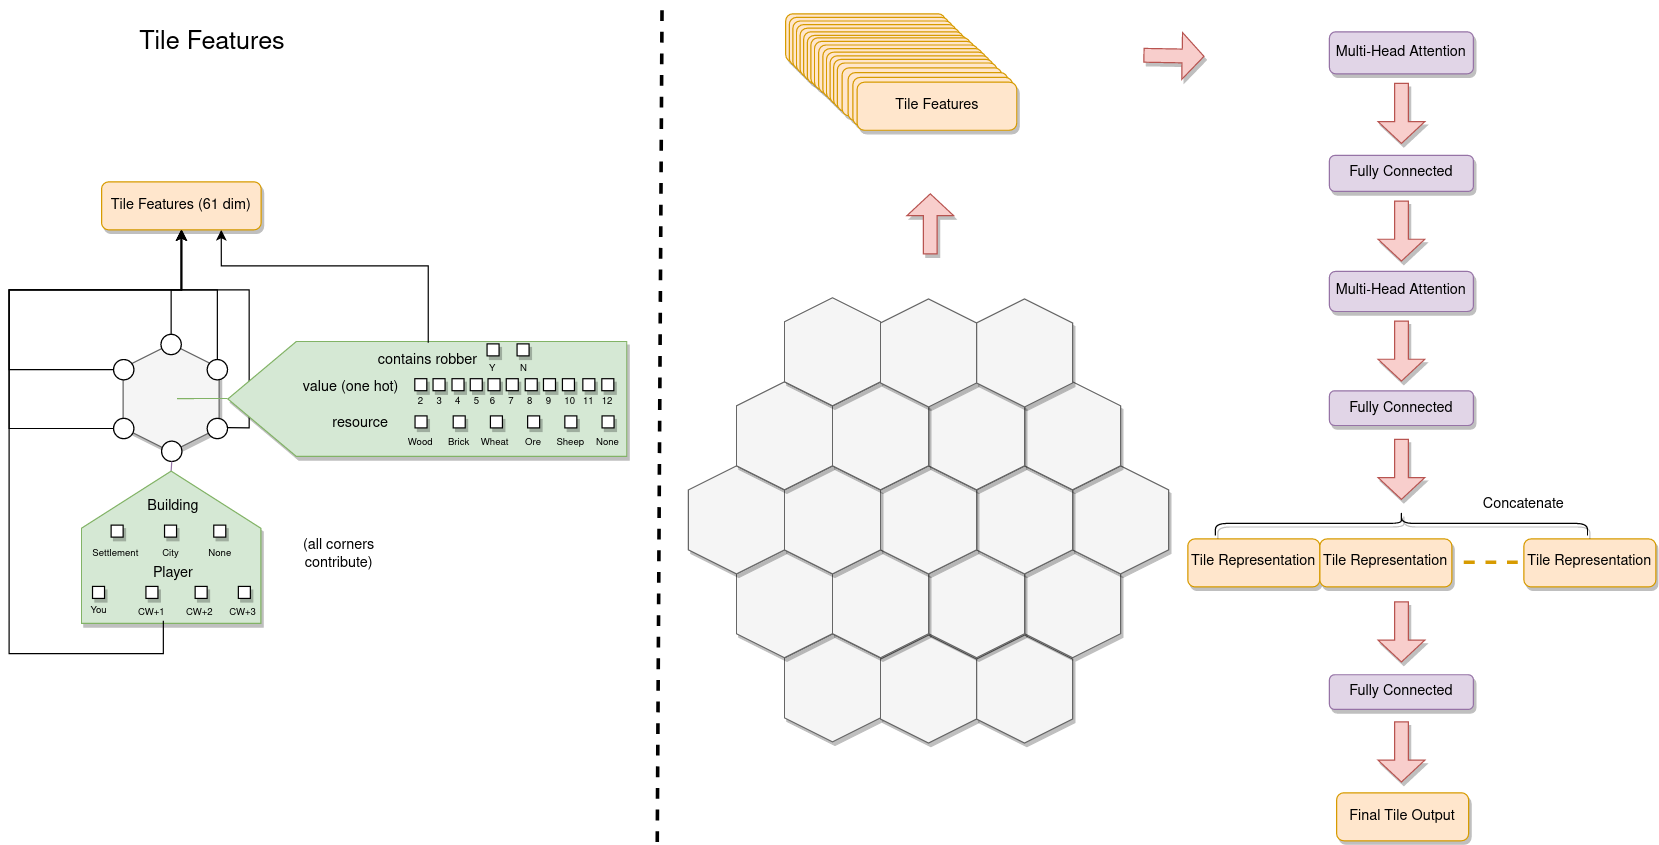
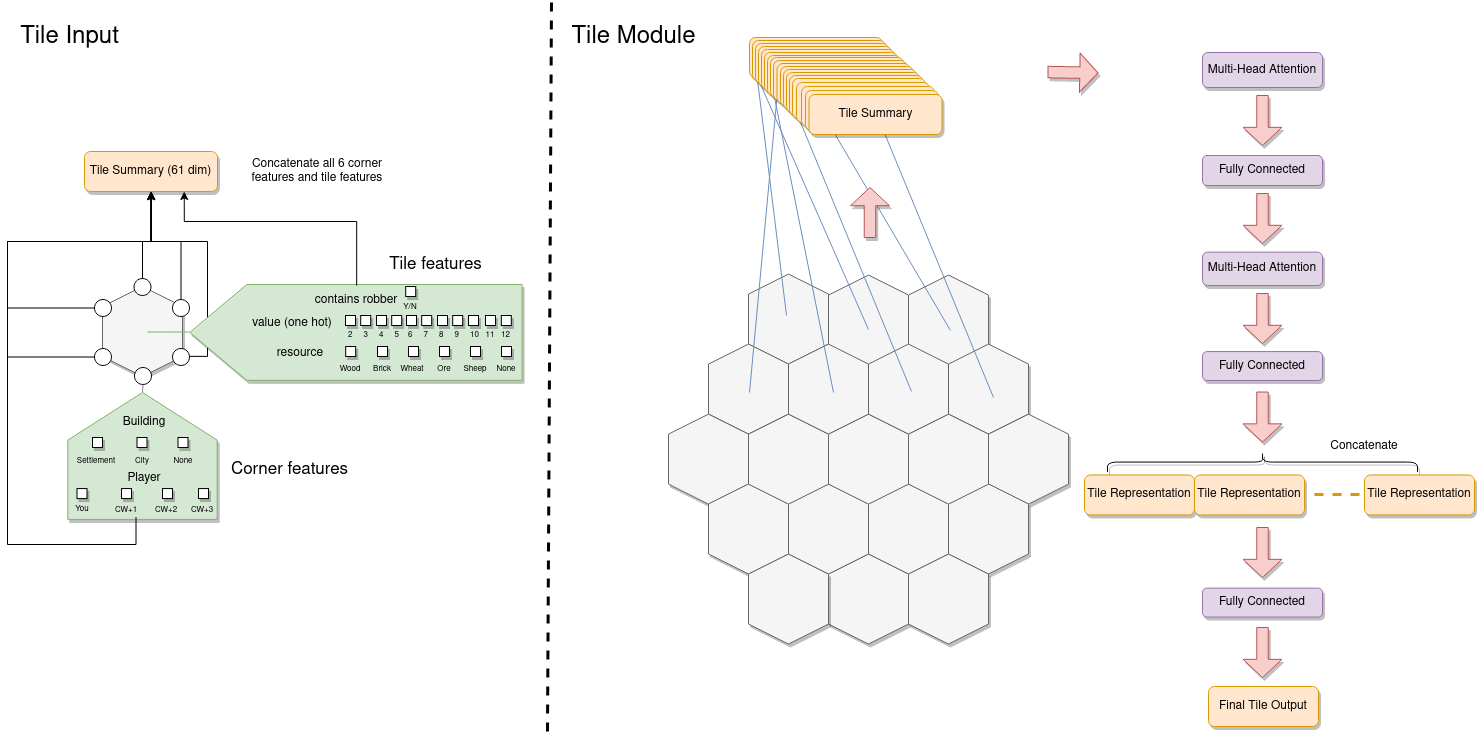
nearly finished obs write up

diff --git a/index.html b/index.html
@@ -591,11 +591,11 @@ d-contents nav > div > a:hover, d-contents nav > ul > li > a:hover {
   The key ideas to deal with the action space was to use a combination of different action heads for different types of actions, and to have the simulator generate a corresponding set of masks that prevent invalid actions from ever being selected. The use of different action heads imposes some <i>structure</i> on the action space, which in principle should make training more efficient.
   </p>
   <p class="l-middle">
-  Let's start by considering the most naive approach we could take and think about some potential issues. An obvious idea would be to simply define a fixed set of actions and then have the neural network policy output a fixed size vector of probabilities over all of these possible actions (masking out all the actions which are unavailable in the current state - i.e. manually setting the probabilities to zero). So for example, you could have the first 54 components of the vector corresponding to placing a settlement on each of the 54 corners of the board, whilst the next 72 could correspond to placing a road on any of the 72 edges of the board, etc. 
+  Let's start by considering the most naive approach we could take and think about some potential issues that may arise. An obvious idea would be to simply define a fixed set of actions and then have the neural network policy output a fixed size vector of probabilities over all of these possible actions (masking out all the actions which are unavailable in the current state - i.e. manually setting the probabilities to zero). So for example, you could have the first 54 components of the vector corresponding to placing a settlement on each of the 54 corners of the board, whilst the next 72 could correspond to placing a road on any of the 72 edges of the board, etc. 
   </p>
 
   <p class="l-middle">
-    Whilst this is probably not too bad for placing settlements and roads, the first issue that arises is that some of the other available actions are a bit more complicated to model. For example, let's consider playing the "Year of Plenty" development card. When the card is played the user is allowed to choose two resources to take from the bank. This effectively makes it a composite action - you choose to play the card and you also need to select the two resources to receive. If we want to treat this as a single decision it means that there need to be 15 separate entries in the fixed size set of actions - one for each combination of resources (we can assume the order of resources is irrelevant). But this means that the network will have to learn about each of these 15 possibilities separately. So when it receives feedback from playing one of these actions (e.g. let's say that the agent went on to receive more reward than usual, so it wants to increase the probability of playing that action again in a similar situation), there is no direct mechanism that will lead to that feedback impacting the probabilities of the other 14 (quite similar) actions. Given that playing a "year of plenty" development card is quite rare anyway this will mean that the agent is likely to require an infeasible amount of experience to learn about all of these different possibilities independently. The alternative would be to break this down this down into three separate decisions - with one of the entries in the fixed size vector representing playing the card, and five entries corresponding to selecting a resource. Then once the card has been played, the simulator could mask out all actions that do not correspond to selecting a resource for the next two decisions. I suspect this might be preferable in this situation, however it's still not ideal because you have turned what should be a single action into three. Additionally, the network will need to be provided with information about the context of each of the three decisions its making and calculating the correct action masks for each decision can get a little tricky. These problems are exacerbated even further when we think about how to model trading.
+    Whilst this is probably not too bad for placing settlements and roads, the first issue that arises is that some of the other available actions are a bit more complicated to model. For example, let's consider playing the "Year of Plenty" development card. When the card is played the user is allowed to choose two resources to take from the bank. This effectively makes it a composite action - you choose to play the card and you also need to select the two resources to receive. If we want to treat this as a single decision it means that there need to be 15 separate entries in the fixed size set of actions - one for each combination of resources (we can assume the order of resources is irrelevant). But this means that the network will have to learn about each of these 15 possibilities separately. So when it receives feedback from playing one of these actions (e.g. let's say that the agent went on to receive more reward than usual, so it wants to increase the probability of playing that action again in a similar situation), there is no direct mechanism that will lead to that feedback impacting the probabilities of the other 14 (quite similar) actions. Given that playing a "year of plenty" development card is quite rare anyway this will mean that the agent is likely to require an infeasible amount of experience to learn about all of these different possibilities independently. The alternative would be to break this down this down into three separate decisions - with one of the entries in the fixed size vector representing playing the card, and five entries corresponding to selecting a resource. Then once the card has been played, the simulator could mask out all actions that do not correspond to selecting a resource for the next two decisions. I suspect this might be preferable in this situation, however it's still not ideal because you have turned what should be a single action into three. Additionally, the network will need to be provided with information about the context of each of the three decisions its making and calculating the correct action masks for each decision can get a little tricky. These problems are exacerbated even further when we think about how to model trading resources.
   </p>
 
   <p class="l-middle">
@@ -603,14 +603,16 @@ d-contents nav > div > a:hover, d-contents nav > ul > li > a:hover {
   </p>
 
   <p class="l-middle">
-    As a quick technical aside, the RL algorithm used (PPO <d-footnote><a href="https://arxiv.org/abs/1707.06347" target="_blank">"Proximal Policy Optimization Algorithms"</a> - Schulman et al. 2017</d-footnote>) requires you to calculate the log-probability of the action taken. Note that this can easily be done with when using multiple action heads. For example imagine a composite action made up of an action type \(a_{\text{type}} \) and a secondary output from another head that depends on the action type, \(a_{\text{head 2}} \). We can write the probability of the composite action as:
-    $$ P(a_{\text{type}}, a_{\text{head 2}}) = P(a_{\text{head 2}} | a_{\text{type}}) P(a_{\text{type}}) $$
-    The first head outputs \( P(a_{\text{type}}) \) and if we feed in the sampled \(a_{\text{type}} \) to the second head then the second head outputs \( P(a_{\text{head 2}} | a_{\text{type}})  \). Then the log probability follows simply as:
-    $$ \log P(a_{\text{type}}, a_{\text{head 2}}) = \log P(a_{\text{head 2}} | a_{\text{type}}) + \log P(a_{\text{type}}) $$
+    As a quick technical aside, the RL algorithm used (PPO <d-footnote><a href="https://arxiv.org/abs/1707.06347" target="_blank">"Proximal Policy Optimization Algorithms"</a> - Schulman et al. 2017</d-footnote>) requires you to calculate the log-probability of the action taken. Note that this can easily be done with when using multiple action heads. For example imagine a composite action made up of an action type \(a_{\text{type}} \) and a secondary output from another head that depends on the action type, \(a_{\text{head two}} \). We can write the probability of the composite action as:
+    $$ P(a_{\text{type}}, a_{\text{head two}}) = P(a_{\text{head two}} | a_{\text{type}}) P(a_{\text{type}}) $$
+    The first head outputs \( P(a_{\text{type}}) \) and if we feed in the sampled \(a_{\text{type}} \) to the second head then the second head outputs \( P(a_{\text{head two}} | a_{\text{type}})  \). Then the log probability follows simply as:
+    $$ \log P(a_{\text{type}}, a_{\text{head two}}) = \log P(a_{\text{head two}} | a_{\text{type}}) + \log P(a_{\text{type}}) $$
   </p>
 
+  <p class="l-middle">So we get the log probability of the composite action simply by summing the log probabilities of each relevant action head!</p>
+
   <p class="l-middle">
-  Having said all of this, using multiple action heads in this way is not trivial, and I will dedicate a fair amount of time to try and explain in detail how this was implemented in practice. To get started with, I broke the basic actions down into the 13 types described in the table below:
+  Having said all of this, using multiple action heads in this way is not trivial, and I will now try and explain in detail how this was implemented in practice. To get started with, I broke the basic actions down into the 13 types described in the table below:
   </p>
 
 
@@ -732,7 +734,7 @@ The fourth head in the "development card" head - giving a distribution over the 
   <button onclick="zoomIn();" class="action_space_button">Zoom In</button>
   <button onclick="zoomOut();" class="action_space_button">Zoom Out</button>
   <button onclick="randomise_action_masks();" class="action_space_button">Resample Masks</button>
-  </center><br/><br/><br/><br/><br/><br/><br/>
+  </center><br/><br/><br/><br/><br/>
   </div>
 
 
@@ -740,15 +742,56 @@ The fourth head in the "development card" head - giving a distribution over the 
 
   <h2 id="nn-architecture">Observation Space/ Neural Network Architecture</h2>
 		
- <p class="l-middle"> Tile encoder, current player summary, other player summary
+ <p class="l-middle">Just as important as the action space is the observation space. The main objectives here are to represent the current state of the game in a way that is appropriate to be processed by a deep neural network and then design the actual architecture of that neural network so that the agent is able to learn effectively.
 		</p>
 
+  <p class="l-middle">
+To get started with this I decided to break the game state, or "observation", into three main parts. Firstly, features associated with each tile on the board are extracted and stacked together. The first of these is the tile's value - represented as a one-hot encoded vector (essentially each possible value is given its own dimension and the vector is zero everywhere except in the dimension corresponding to the actual value which is set to one). Using a one-hot encoded vector instead of just giving the neural network the actual value as a number is crucial because it is makes it much easier to learn a representation that treats each of the possible values differently (particularly as there is no simple ordering of values - 6 and 8 are "best" because they get rolled the most often, whilst 2 and 12 are "worst").<d-footnote>As an example, think about if we were trying to learn a function that mapped each different value to a random number. If we just provided a single input which was the actual value, the network would have to carefully learn a set of weights that map an input of 2 to a particular random number, and then 3 to another random number (which generally could be far away) without disturbing how it maps the input of 2, etc. It should be clear that the network has a lot more freedom to more easily learn such a function (or any other function) if the possible value inputs are one-hot encoded into a vector instead.</d-footnote>. Then there is the tile's resource (again one-hot encoded) and whether or not the tile contains the robber. Additionally, features for each of the corners attached to the tile are concatenated together (in a fixed order, e.g. top-left, top, top-right, bottom-right, bottom, bottom-left). These consist of the type of building placed there (None, Settlement or City) and which player owns them. For the player who owns them I use the notation "CW+1" to refer to the next player (going clockwise) from the current player making a decision, and "CW+2" for the player after, "CW+3" for the player after that.
+</p>
+
+<p class="l-middle">
+  The feature vectors for each tile come out being 61-dimensional. All of these individual tile feature vectors are then fed into a multi-head attention mechanism
+<d-footnote><a href="https://arxiv.org/abs/1706.03762" target="_blank">"Attention Is All You Need"</a> - Vaswani et al. 2017. A particularly nice implementation (along with a full video explanation) can be found <a href="https://github.com/gordicaleksa/pytorch-original-transformer" target="_blank">here</a>.</d-footnote>, which can gradually build up a representation of each tile that can depend on the other tiles on the board. In principle this allows the agent to learn complex representations of each tile that can take into account global information about the whole board (which should be useful - because in Settlers of Catan how "good" a particular tile is absolutely depends on the rest of the board, e.g. who has access to which resources/ how likely are they to roll on those resources etc). We then have a fully connected layer (which acts with the same weights applied to each tile representation independently), before repeating another multi-head attention mechanism and another fully connected layer. After this the 19 tile representations are concatenated and fed into a final fully connected layer, which gives the final output of the "tile module". Note that we use "ReLU" activation functions after each fully connected layer, and also use Layer Norm <d-footnote><a href="https://arxiv.org/abs/1607.06450" target="_blank">"Layer Normalization"</a> - Ba et al. 2016</d-footnote>layers after both the fully connected layers and multi-head attention layers (not shown in the diagram). Although I obviously haven't been able to run extensive tests, just from my initial experiments it does appear that these Layer Norm layers are very important (as well as using value function normalisation, which I will go into in the RL training section).
+  </p>
+
 <div class="l-screen-inset"><center>
-    <img src="images/tile_features_and_encoder.png" width="70%"/></center>
+    <img src="images/tile_features_and_encoder.png" width="70%"/></center><br/>
+  </div>
+
+<p class="l-middle">
+  Next we need to summarise the current state of each player in the game in more detail. For the "current" player (i.e. the player making the decision) we generate a fixed size vector of features. These include two inputs for the longest road (whether the current player has the longest road and the normalised length of their current longest road) and two inputs corresponding to the largest army (whether they currently have the largest army and the current size of their army - i.e. how many knight development cards they've played). Next there is a one-hot encoding of the current number of victory points the player has, and then a feature vector representing which harbours (if any) they currently own. Finally, a summary of both the current resources the player has as well as the production for each resource is included. For each resource a vector is given representing the number of that resource the player has. For simplicity I decided to limit this to a separate entry for 1, 2, 3, 4 or 5 of that resource, and then two additional entries for 6-8 and 8+ (if the player has none of that resource then obviously all entries will be zero). This is injecting a small amount of prior knowledge that the agent probably doesn't need to distinguish between cases where, say, it has 8 wood and situations where it has 10 wood, because that is a lot of wood! To give information about the resource production a vector for each resource indicating the number of settlements that provide the player with that resource when a given value is rolled is provided. So for example, if a player had a settlement on a wood tile with value 6 then the entry in the wood vector corresponding to 6 would be set to 1 (or 2 for a city, and if there are multiple settlements this could be even higher - so this vector does not have values constrained to just 0 and 1).
+</p>
+
+<p class="l-middle">
+  This, along with a vector summarising the amount of resources/development cards left in the bank is passed into a fully connected layer. The main thing missing here is information about the player's development cards, which is dealt with separately because the player can both own and have played a variable number of cards. As such, both the cards the player has in their hand at the moment and the cards that they've played before are encoded as variable length lists of integers. These are then passed through an embedding layer and then into a multi-head attention mechanism. After the attention mechanism the representations of each card are <i>aggregated into a fixed size vector</i> by taking the sum over the list dimension for all of the cards. This allows the agent to learn a fixed-size representation of a potentially variable length sequence of development cards, and is concatenated with the "main" current player output before being fed into another fully connected layer.
+</p>
+
+<p class="l-middle">
+The final thing that the agent needs to know about is information about the other players. For each player a feature vector similar to the one for the current player is constructed. The key difference is that the other player's resources/development cards are hidden (but a lot of things can be tracked - e.g. everyone knows when a player gathers a resource from someone rolling a particular number). To deal with this, I set up the environment in a way that keeps track of the minimum and maximum number of each resource that each player could have <i>given the publicly available information</i>. The feature vector for each other player then includes both of these. Additionally the feature vector includes information about the number of unplayed development cards, but nothing else. However the development cards that that player has played in the past is publicly available information, and this is processed with an embedding and multi-head attention layer in the same way as the development cards of the current player.
+</p>
+
+<p class="l-middle">
+The feature vectors for each of the three other players are all processed in parallel by the same fully connected layers for improved efficiency, before eventually being concatenated together along with the tile module output and current player output. This concatenated output is fed through another fully connected layer before being designated as the "observation module output" (so it is this output that is used as the main input to each of the action heads described in the previous section).
+</p>
+
+<div class="l-screen-inset"><center>
+    <img src="images/player_modules.png" width="85%"/></center>
+  </div>
+
+  <div class="l-screen-inset"><center>
+    <img src="images/high_level_architecture.png" width="70%"/></center>
   </div>
 
 
+  <p class="l-middle"><br/><br/>
+    A lot of the features and architecture choices made here could have been done differently, and so I make no claims that this is definitely the best way to do things. Additionally as I have said, I simply don't have the computational resources available to experiment with a lot of the choices to see how they empirically effect the performance. Nevertheless, I am reasonably satisfied that the approach I've taken and the choices I've made are sensible (and as we shall see they do lead to some clear learning progress, at least).
+
+    MENTION LSTM
+  </p>
+
+
   <h2 id="ppo-training">RL (PPO) Training Details</h2>
+  only one "active" agent per game - others are playing with (generally) and older version of the policy. This is less data efficient but necessary to train a robust agent.  VF normalisation is important. Layer normalisation is important. Unclear how important annealing entropy/reward was - but regret it as implementation was wrong. Huge batch sizes. considered using lstm - initial version did. Decided against in the end.
 
   <h2 id="results">Results From RL Training</h2>
 

diff --git a/js/distill_template_new.js b/js/distill_template_new.js
@@ -4354,7 +4354,7 @@ d-footnote-list a.footnote-backlink {
 
 </style>
 
-<h3>References</h3>
+<h3>References/ Footnotes</h3>
 <ol></ol>
 `, false);
 
